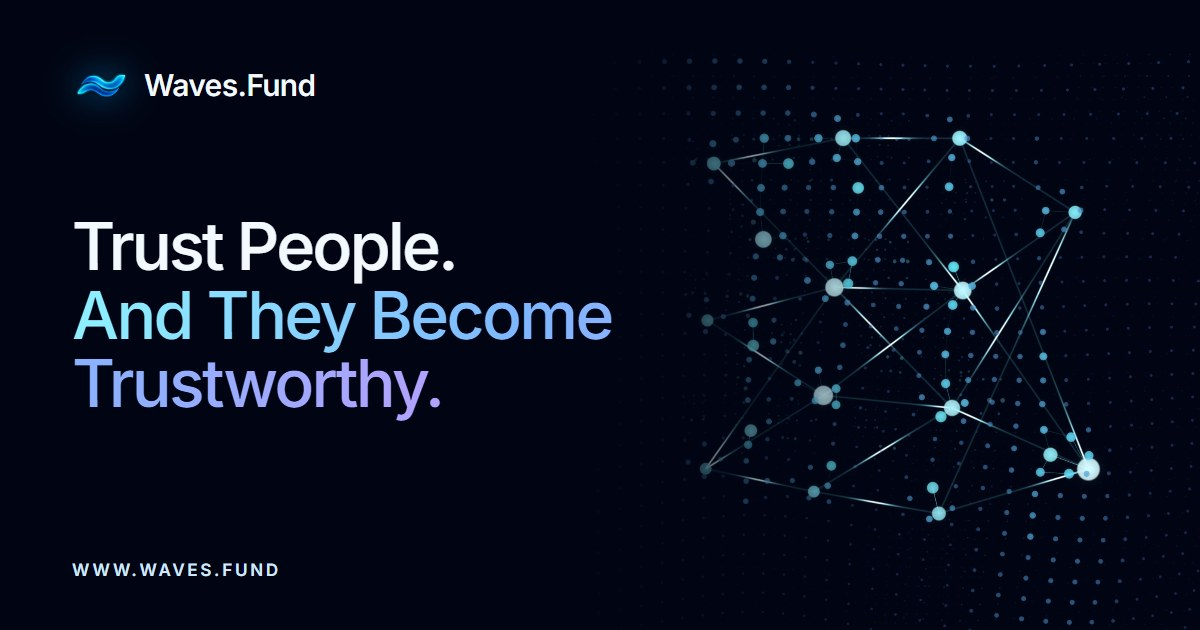
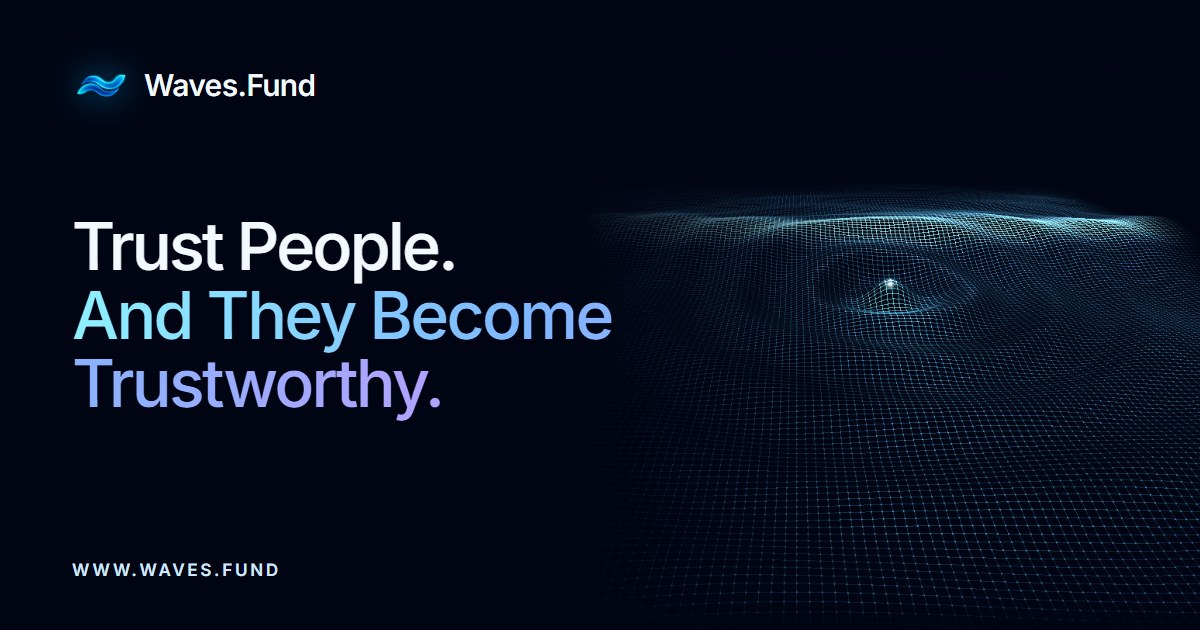
The lessons are one journey; the share cards show the sea
The Guide Library's six lessons are joined by the circuit: across each row, then through the row gap to the start of the next. The Learn share card now shows the sea with a wave lifting through the light, the default card shows the calm sea under the mantra, and Waves In Motion has its own card.

Changed region(s): [[0.5242, 0.181, 1.0, 0.9651], [0.74, 0.9048, 0.7708, 0.9349]]

diff --git a/src/guide-library.tsx b/src/guide-library.tsx
@@ -66,7 +66,7 @@ export function GuideLibrary() {
   return <div className="document-page guide-public">
     <Link to="/guide" className="guide-back"><ArrowLeft size={16} />Wave Guides</Link>
     <Intro eyebrow="THE WAVE GUIDE LIBRARY" mind="path" title={<>Learn the practice.<br /><span>Build it together.</span></>} actions={<div className="guide-library-tools"><Download content={guideHandbook} filename="Waves-Guide-Handbook.md">Download The Full Handbook</Download><a href="#guide-worksheets" className="guide-inline-link">Seven working templates <ArrowRight size={16} /></a></div>}><p>A practical foundation for the human in the loop. Listen deeply. Build something useful. Help people move together. Show what changed.</p></Intro>
-    <section className="guide-section" aria-labelledby="guide-lessons-title"><div className="guide-section-heading"><p className="eyebrow">SIX LESSONS · ONE COMPLETE JOURNEY</p><h2 id="guide-lessons-title">Start with a real mission.</h2><p>Work through the lessons with your builder or an illustrative exercise. Each one ends with a deliverable and a readiness check. Reading times are estimates; the work takes the time it needs.</p></div><div className="guide-lesson-grid">{guideLessons.map((lesson, index) => <Link key={lesson.slug} to={`/guide/library/${lesson.slug}`} className="guide-lesson-card panel"><div className="guide-lesson-card-top"><span className="guide-lesson-number">0{index + 1}</span><span>{lesson.minutes} min read</span></div><h3>{lesson.title}</h3><p>{lesson.description}</p><span className="guide-lesson-open">Open lesson <ArrowRight size={18} /></span></Link>)}</div></section>
+    <section className="guide-section" aria-labelledby="guide-lessons-title"><div className="guide-section-heading"><p className="eyebrow">SIX LESSONS · ONE COMPLETE JOURNEY</p><h2 id="guide-lessons-title">Start with a real mission.</h2><p>Work through the lessons with your builder or an illustrative exercise. Each one ends with a deliverable and a readiness check. Reading times are estimates; the work takes the time it needs.</p></div><Circuit><div className="guide-lesson-grid">{guideLessons.map((lesson, index) => <Link key={lesson.slug} to={`/guide/library/${lesson.slug}`} className="guide-lesson-card panel"><div className="guide-lesson-card-top"><span className="guide-lesson-number">0{index + 1}</span><span>{lesson.minutes} min read</span></div><h3>{lesson.title}</h3><p>{lesson.description}</p><span className="guide-lesson-open">Open lesson <ArrowRight size={18} /></span></Link>)}</div></Circuit></section>
     <section className="guide-learning-callout panel guide-teachback-callout in-library"><div><p className="eyebrow">THE TEACHBACK</p><h2>Give Together. Teach Together.<br />Organize a teachback.</h2><p>Learn it, teach it together, and hear it taught back. The Teachback is how Wave Guides pass on what they learn, and how anyone can teach with a friend.</p></div><div className="guide-actions"><ButtonLink to="/guide/teachback">Read The Teachback</ButtonLink><ButtonLink to="/give/opportunities/new?kind=teachback" secondary>Organize A Teachback</ButtonLink></div></section>
     <section className="guide-case-strip panel"><img src="/media/wave-examples/growth-wave-640.webp" alt="Illustrative Growth Wave showing people connecting around a community workshop" loading="lazy" width="640" height="960" /><div><p className="eyebrow">EIGHT STARTING MODELS</p><h2>Different missions.<br />A shared foundation.</h2><p>Growth. Funding. Innovation. Story. Hype. Maker. Work. Brave. Explore the illustrated examples, then shape what your builder actually needs.</p><ButtonLink to="/now-lets-begin#wave-examples" secondary>Explore The Wave Examples</ButtonLink></div></section>
     <section id="guide-worksheets" className="guide-section" aria-labelledby="guide-worksheets-title"><div className="guide-section-heading"><p className="eyebrow">TAKE THE WORK WITH YOU</p><h2 id="guide-worksheets-title">Seven working templates.</h2><p>Download, adapt, and agree them together. These are blank starting documents. Keep client details and private decisions in your assigned workspace.</p></div><WorksheetList /></section>

diff --git a/src/circuit.css b/src/circuit.css
@@ -16,6 +16,7 @@
 
 /* Room for a trace to be seen between the cards. */
 .circuit .cascade { gap: 84px; }
+.circuit .guide-lesson-grid { gap: 72px 40px; }
 @media (min-width: 900px) {
   .circuit .cascade { gap: 96px; }
   .circuit .roadmap { gap: 48px; }

diff --git a/docs/design/MOTUS-DESIGN.md b/docs/design/MOTUS-DESIGN.md
@@ -84,8 +84,10 @@ leaves the lit card, travels the trace in whole beats (one beat per 300 px) and 
 the card's rim lights once, and the trace stays live. A card reached before its pulse has landed waits
 its turn, so energy always moves forward, one light at a time. The pulse is an HTML element on a CSS
 motion path; the traces are SVG hairlines measured with the scroll arrivals switched off. Motion off:
-cards light as they are reached, no pulse. Where: Learn's four practices and its roadmap, the Guide
-library's four steps.
+cards light as they are reached, no pulse. Where: Learn's four practices and its roadmap, the four steps on
+the Guide page, and the Guide Library's six lessons ("one complete journey"; in a grid the trace from the end of
+one row runs through the row gap to the start of the next). The Teachback steps are not cards, so a trace there
+would cross their text; they keep their symbols alone.
 
 | Element | Statement |
 | --- | --- |
